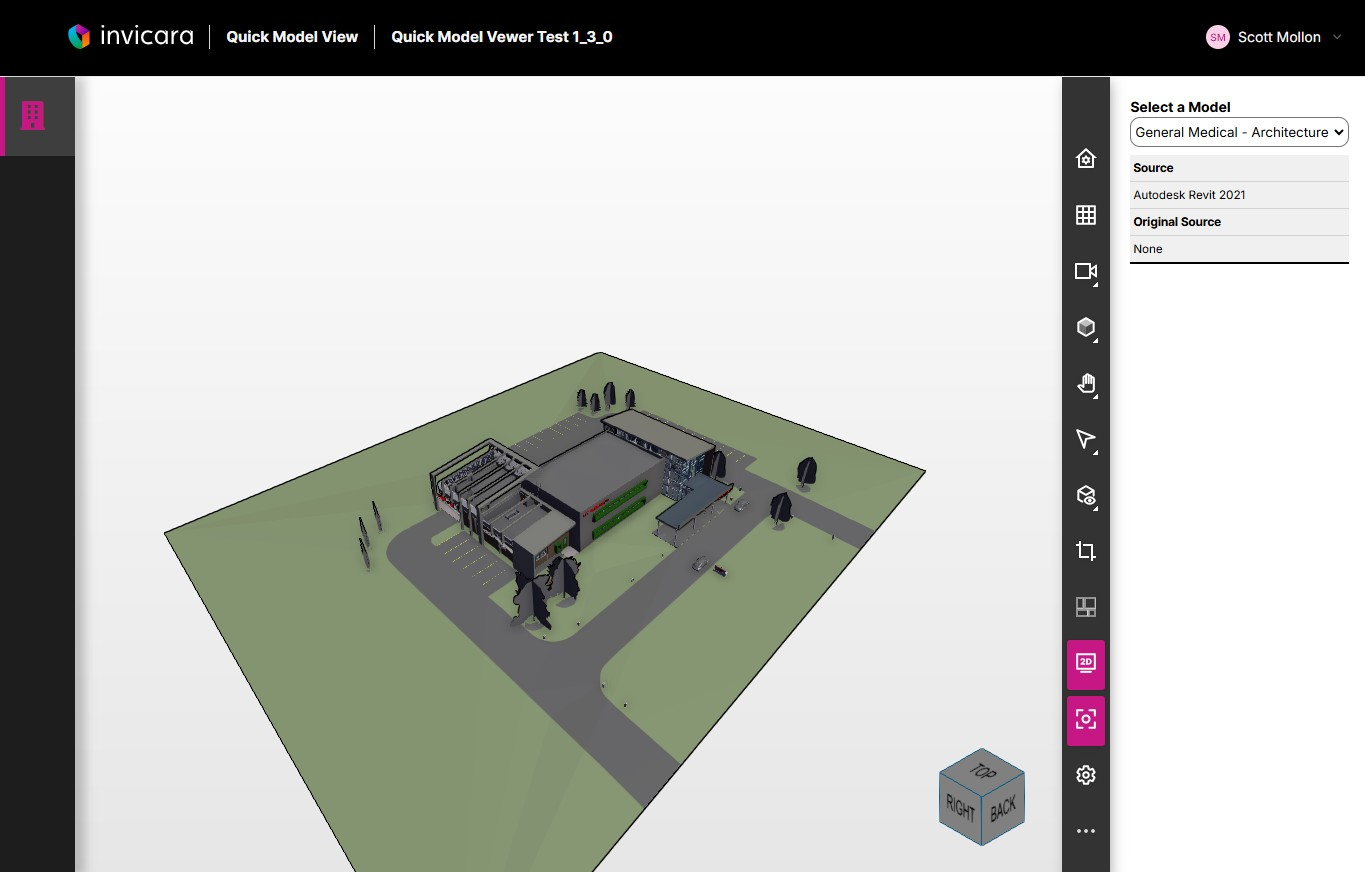
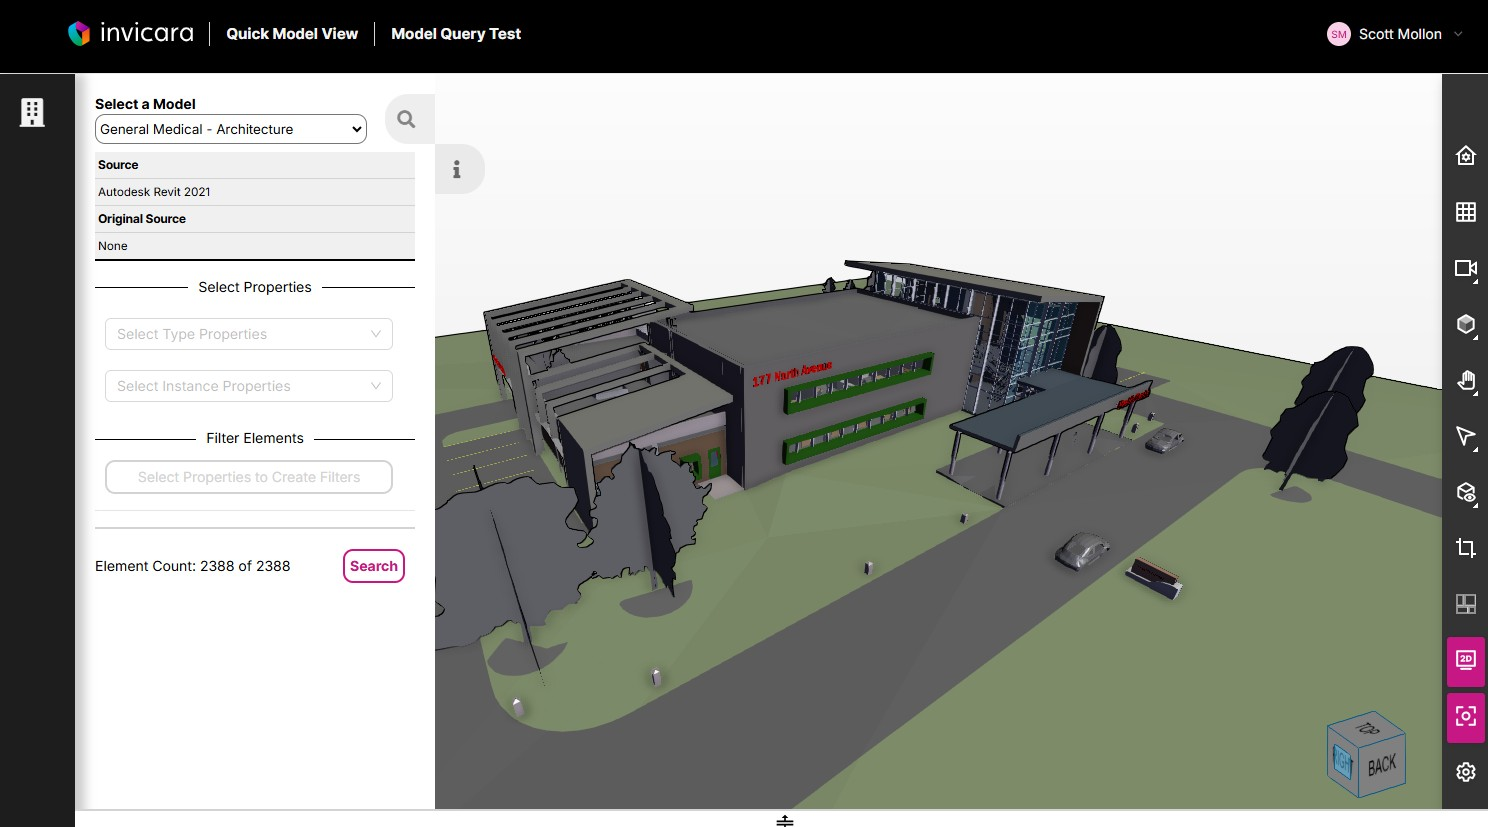
2.0.0 doc updates

diff --git a/docs/user guide/quickmodelview/viewmodel.md b/docs/user guide/quickmodelview/viewmodel.md
@@ -1,12 +1,21 @@
 # How to View a Model and Model Element Properties
 
+Follow the links for Tutorials on how to:
+
+* [View a Model](#view-a-model)
+* [View Selected Element Properties](#view-selected-element-properties)
+* [Search Model Elements](search-model-elements)
+* [Interact with the Element Table](interact-with-the-element-table)
+* [Download the Element Table to Excel](download-the-element-table-to-excel)
+
+
+## View a Model
+
 1. Select the Model View page
 
 ![modelviewnav](../../img/pick-model-view.jpg)
 
-2. Select a model in the Select a Model dropdown
-
-![view model select](../../img/view-model-select.jpg)
+2. Select a model in the Select a Model dropdown. If there is only one imported model in the project it will be automatically selected
 
 > **Note**: If the Select a Model dropdown does not appear, or if the dropdown is empty, then most likely a model has not yet been imported. See [How to Import a Model](./importmodel.md).
 
@@ -14,9 +23,80 @@
 
 ![view model load](../../img/view-model-load.jpg)
 
-4. Click on an element in the model and the element properties will display in the panel on the right
+## View Selected Element Properties
+
+1. Click on an element in the model
+2. Click the (i) Element drawer to expand it and view the element properties
 
 ![view model elem](../../img/view-model-elem.jpg)
+
+> The Element drawer can be resized by dragging the right edge.
+
+## Search Model Elements
+
+1. Expand the Search drawer
+
+> The Search drawer can be resized by dragging the right edge.
+
+> **Note**: If you see this message in the search drawer, contact one of your project Admins and ask that they search enable the model following the [Migration User Guide](../migrationguide/migrate.md).
+>
+> ![model not enabled](../../img/model-not-enabled.jpg)
+
+2. Select from the list of type and instance properties found in the model. **Hint**: the dropdown is searchable
+
+![search props](../../img/select-search-props.jpg)
+
+The properties you choose can be used to filter model elements in the next step and will appear as columns in Element table. 
+
+3. You can select from the properties you chose above to create a search filter. Selecting a property from the Filter Elements dropdown will add a new unconfigured filter for that property.
+
+![search filter unconfigured](../../img/search-filter-unconfigured.jpg)
+
+> Currently only text and number properties are supported for creating search filters. [Click here](./searchfilters.md) to learn more about supported search filters and how to configure them.
+
+4. Configure your filter and click Save
+
+The count of elements that match the filter will update after saving the filter.
+
+![search filter configured](../../img/search-filter-configured.jpg)
+
+5. Once you have all your filters configured and saved, click the Search button
+
+When the search completes the model viewer will update to isolate the searched elements from the rest of the model. You can continue to interact with the elements by clicking on them to view their properties.
+
+![search complete](../../img/search-complete.jpg)
+
+## Interact with the Element Table
+
+1. Once you have searched for model elements, you can view details for those elements by dragging the bottom panel up to view the element table
+
+![element table](../../img/element-table/element-table-default.jpg)
+
+2. Clicking on a row will expand the row and display all of the element properties, clicking it again will collapse the element details
+
+![element table expand](../../img/element-table/element-table-row-expand.jpg)
+
+3. Clicking a column heading will sort the table by that column
+
+4. Selecting an element in the model view will highlight the corresponding row in the table
+
+![element table highlight](../../img/element-table/element-table-row-highlight.jpg)
+
+5. Clicking a circle in the left column of the element table will select that element in the model view
+
+![element table click](../../img/element-table/element-table-row-click.jpg)
+
+> Hint: sorting by the first column of the table will keep the currently selected element row at the top of the first page of table data. This can be helpful when table contains many pages of data.
+
+6. Adding or removing selected properties will update the table columns, without the need to perform another search.
+
+## Download the Element Table to Excel
+
+1. Once you have the element table configured with your desired properties click the green download button to save the current state of the table to an Excel xlsx file.
+
+![element table donwload](../../img/element-table/element-table-row-download.jpg)
+
+![element table click](../../img/element-table/element-table-row-excel.jpg)
 
 ---
 [Quick Model View User Guide](./README.md) < Back | Next > [How to Invite Users to a Quick Model View Project](./inviteusers.md)

diff --git a/docs/user guide/quickmodelview/README.md b/docs/user guide/quickmodelview/README.md
@@ -11,7 +11,7 @@ The Quick Model View Application provides capabilities to upload, import, and vi
 * **Viewing the graphics for imported models**. The Quick Model View Application provides a Model View page that provides for viewing the imported models in the project. Both 2D and 3D views of the model are supported. All the viewer features are also supported such as cutting planes, and view modes.
 * **Searching for model elements**. Use the search controls to find elements in your models and isolate them in them 2D/3D view.
 * **Viewing model element properties**. Using the Model View page, model elements can be selected in the model 2D/3D viewer, and the properties on the element can be viewed. Open the application's bottom panel to view a table of your searched elements. Expand rows to see all the properties of a element or select a row in the table to highlight an element in the 2D/3D view.
-* **Invite users to view models**. Using the Quick Model View Application User Groups page, users ca be invited to participate and view models.
+* **Invite users to view models**. Using the Quick Model View Application User Groups page, users can be invited to participate and view models.
 
 ## User Groups
 
@@ -26,7 +26,7 @@ Users in the **Viewers** group have read-only permissions to all resources in th
 
 The features available to each user group are listed below:
 
-| User Group | Download Plugins | Import Models | View Models | View Model Element Properties | Invite Users |
+| User Group | Download Plugins | Import Models | View Models | Search and View Model Element Properties | Invite Users |
 | --- | --- | --- | --- | --- | --- |
 | **Admin** | Yes | Yes | Yes | Yes | Yes |
 | **Viewers** | Yes | No | Yes | Yes | No |
@@ -36,8 +36,13 @@ The features available to each user group are listed below:
 * [How to download Twinit CAD plugins](./downloadplugins.md)
 * [How to upload a model](./upload.md)
 * [How to import a model](./importmodel.md)
+* [How to delete the latest imported model](./deletemodel.md)
 * [How to view a model and model element properties](./viewmodel.md)
 * [How to invite users to a Quick Model View project](./inviteusers.md)
+
+## More Info
+
+* [Using Search Filters](./searchfilters.md)
 
 ---
 

diff --git a/docs/user guide/quickmodelview/searchfilters.md b/docs/user guide/quickmodelview/searchfilters.md
@@ -1,0 +1,49 @@
+# Using Search Filters
+
+## Search Structure
+
+When adding multiple filters for multiple properties, only model elements that match all of the filters will be returned. The resulting query created by the filters will be an AND query.
+
+If you configure three filters elements must match "filter 1' AND 'filter 2' AND 'filter 3'.
+
+## Supported Property Types
+
+Currently two types of properties are supporting in search filters:
+
+* Text properties
+* Number properties
+
+You can select properties of other types to appear as columns in the element table, but thy will not appear in the list of properties for which you can create filters.
+
+### Filtering Using Text Properties
+
+When a text property is chosen for a filter, it will allow you to select one or more of the text values that exist in the model for that property.
+
+![filter text](../../img/filters/filtr-text.jpg)
+
+Selecting multiple values will return model elements with any of the property values.
+
+### Filtering Using Number Properties
+
+You can filter on number properties in five ways:
+
+* equals
+* less than
+* greater than
+* between
+* outside
+
+![filter num options](../../img/filters/filtr-num-options.jpg)
+
+When configuring an 'equals', 'less than', or 'greater than' filter provide one number to use for the comparison.
+
+![filter greater](../../img/filters/filtr-num-greater.jpg)
+
+When configuring a 'between' or 'outside' filter provide two numbers to use for the range comparison.
+
+![filter greater](../../img/filters/filtr-num-between.jpg)
+
+The order of the numbers does not matter. The filter will sense the larger of two numbers and construct the correct query.
+
+---
+[Quick Model View User Guide](./README.md) < Back

diff --git a/docs/user guide/projectmaker/migrateproject.md b/docs/user guide/projectmaker/migrateproject.md
@@ -1,0 +1,21 @@
+# How to Migrate a Project
+
+1. Sign in to your Quick Model View Manager project
+
+Any projects that can be updated will appear in the list with an 'Update Project' button.
+
+![migrate button](../../img/migrate-btn.jpg)
+
+2. Click the migrate button to start the migration of the project
+
+The list will expand to display the steps of the migration as they complete. Once the migration finishes the project will display with a green circle indicating it is up to date.
+
+![migrate complete](../../img/migrate-complete.jpg)
+
+3. Click the x icon to close the migration log
+
+> **IMPORTANT**: Do not refresh or leave the page while a migration is running, as it will cancel the migration and result in an incomplete migration of the project. In most cases the migration can be run again on the project if the migration was interrupted.
+
+---
+
+[Project Maker User Guide](./README.md) < Back

diff --git a/docs/user guide/quickmodelview/deletemodel.md b/docs/user guide/quickmodelview/deletemodel.md
@@ -1,0 +1,21 @@
+# How to Delete the Latest Imported Model
+
+1. Select the Model Import page
+
+![modelimportnav](../../img/pick-model-import.jpg)
+
+2. Select a model in the Select Model dropdown
+3. Click the trash can icon next to the latest imported model version
+
+![dletemodel](../../img/delete-imp-model-icon.jpg)
+
+4. A message will display as the imported model is deleted
+
+![dletemodelrunning](../../img/delete-imp-model-running.jpg)
+
+5. When the delete is finished the page will update to allow you to reimport the bimpk again
+
+![dletemodelreimp](../../img/delete-imp-reimport.jpg)
+
+---
+[Quick Model View User Guide](./README.md) < Back | Next > [How to View a Model and Model Element Properties](./viewmodel.md)

diff --git a/docs/user guide/README.md b/docs/user guide/README.md
@@ -1,5 +1,11 @@
 # User Guide: Quick Model View Twinit Application
 
+<img align="left" width="60" src='../img/alert.jpg' />
+
+**If you have updated your Quick Model View from a previous release, be sure to read the [Migration User Guide](./migrationguide/migrate.md) to ensure you have access to all of the latest features.**
+
+---
+
 ![qmv](../img/model-view.jpg)
 
 The **Quick Model View Application** gives you the ability to upload and import your models to Twinit and then view and interactively explore your models in 2D and 3D.

diff --git a/docs/user guide/quickmodelview/importmodel.md b/docs/user guide/quickmodelview/importmodel.md
@@ -23,4 +23,4 @@ The import process will begin and the status of each import step will be display
 Once the import is complete the model is ready for viewing.
 
 ---
-[Quick Model View User Guide](./README.md) < Back | Next > [How to View a Model and Model Element Properties](./viewmodel.md)
+[Quick Model View User Guide](./README.md) < Back | Next > [How to Delete the Latest Imported Model](./deletemodel.md)

diff --git a/docs/developer guide/update/updateWebclient.md b/docs/developer guide/update/updateWebclient.md
@@ -8,7 +8,7 @@ See these steps in the deployment guide:
 2. [Test the Template](./deploy/d4-test.md)
 3. [Deploy the Web Client for Users](./deploy/d5-deploy-to-cloud.md)
 
-Be sure that your build proces includes running
+Be sure that your build process includes running
 
 ```
 npm install

diff --git a/docs/user guide/projectmaker/createproject.md b/docs/user guide/projectmaker/createproject.md
@@ -20,4 +20,5 @@ Once complete the new project will appear on the list to the right side of the p
 ![project complete](../../img/proj-make-complete.jpg)
 
 ---
+
 [Project Maker User Guide](./README.md) < Back
